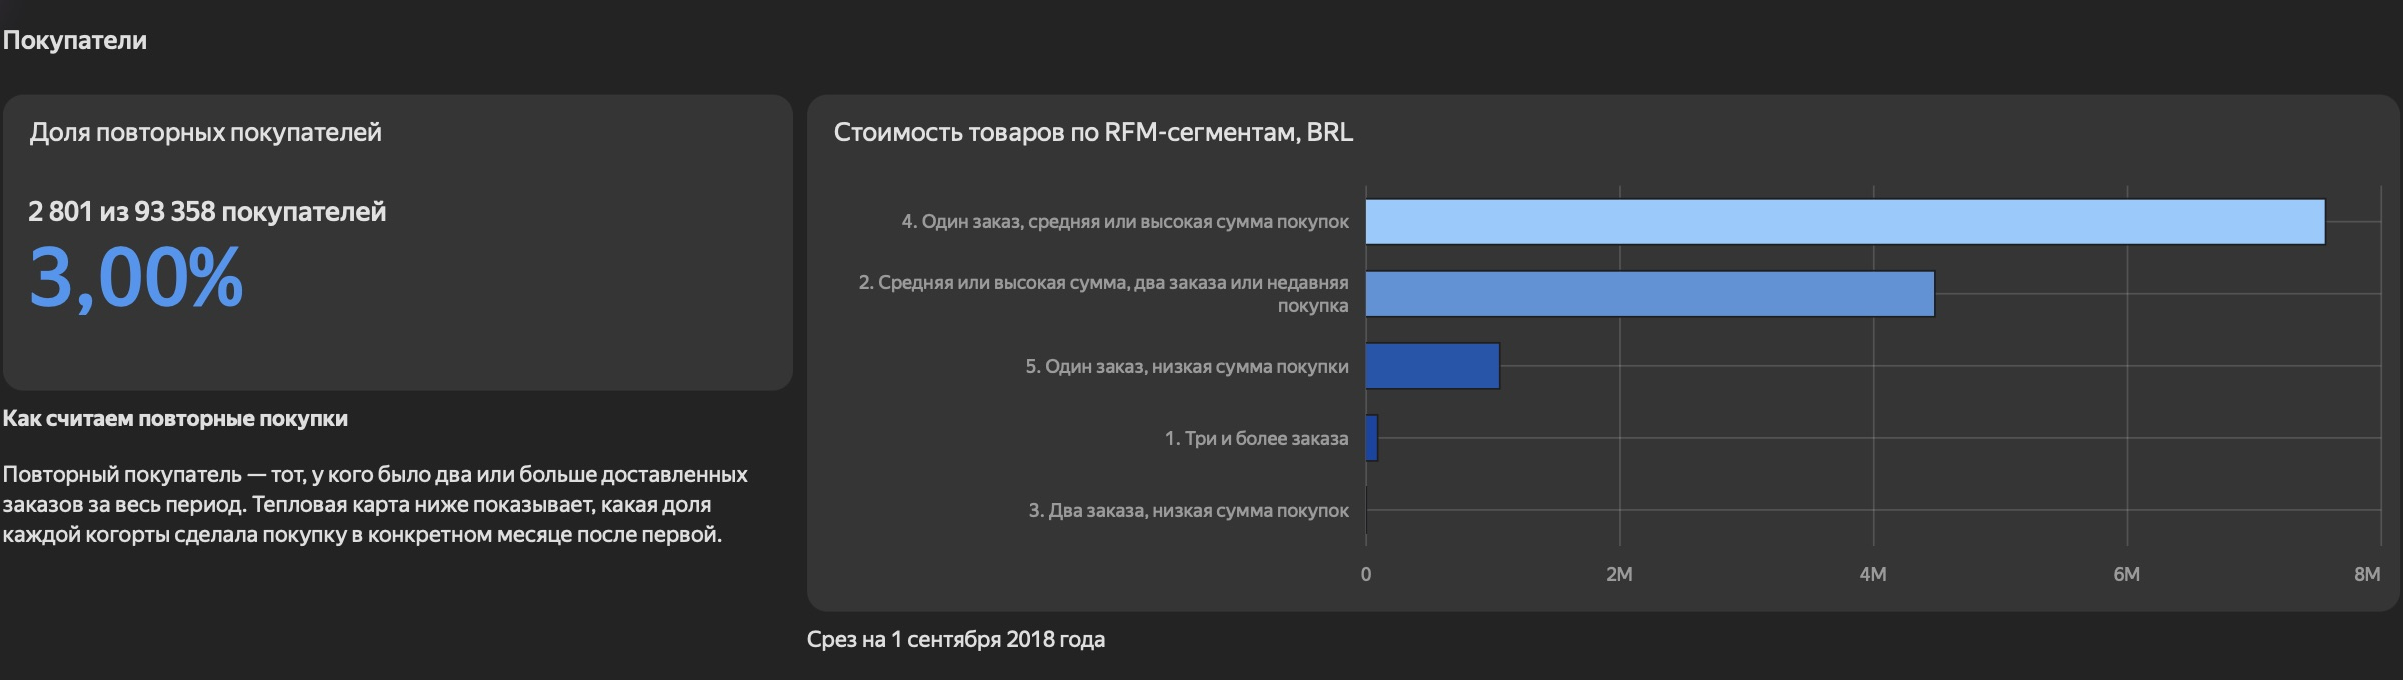
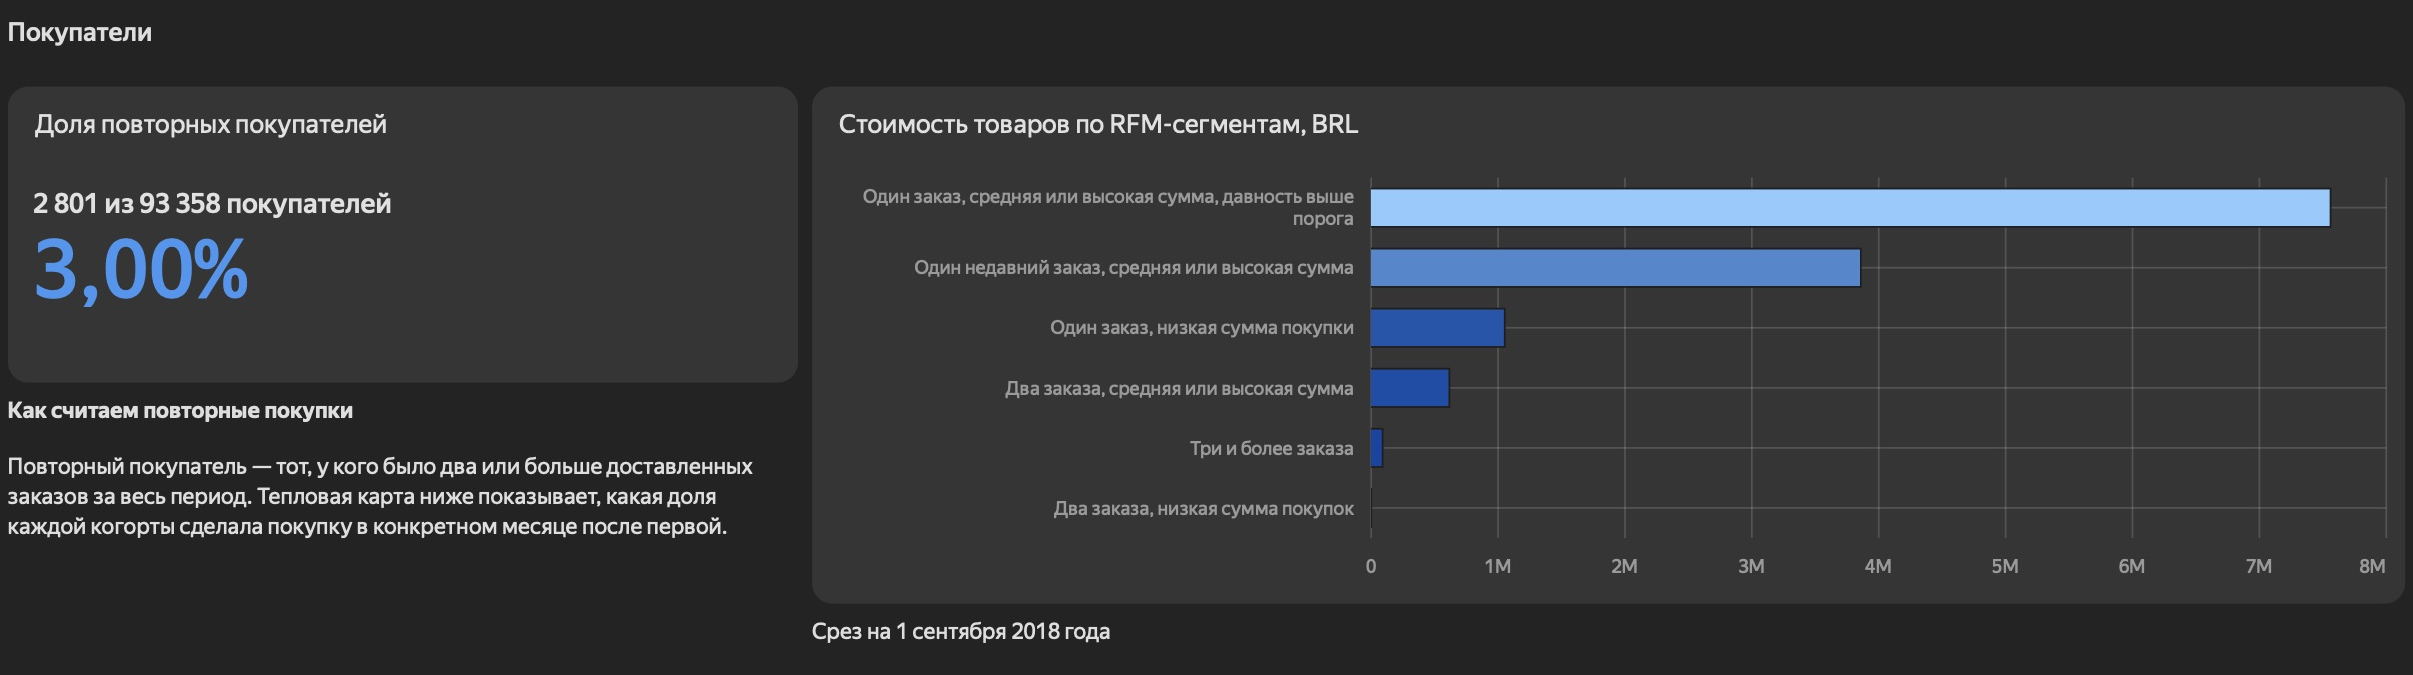
Перевести категории товаров и обновить материалы проекта

diff --git a/docs/business-report.md b/docs/business-report.md
@@ -35,11 +35,11 @@
 
 Во всех 19 месяцах средняя оценка опоздавших заказов была ниже, а доля низких оценок — выше. Помесячные разрывы составили 1,41–2,28 балла и 35,20–61,64 п. п. соответственно. Сравнение показывает связь в наблюдаемых данных. Для оценки причинного эффекта потребовалось бы учесть другие различия между группами заказов. [SQL анализа доставки и оценок](../sql/06_delivery_reviews.sql)
 
-Отменённые заказы определяются по статусу `canceled` и делятся на все заказы месяца покупки. За тот же период отменено **577 из 98 292** заказов (**0,59%**). Максимум по месячной доле пришёлся на август 2018 года (**1,29%**, 84 из 6 512). [Дашборд доставки и отмен](../dashboard/screenshots/delivery.png)
+Доля отмен — это число заказов со статусом `canceled`, делённое на общее число заказов месяца покупки. Отдельный статус `unavailable` за тот же период получили **592 заказа**. В числитель доли отмен они не входят. За тот же период отменено **577 из 98 292** заказов (**0,59%**). Максимум по месячной доле пришёлся на август 2018 года (**1,29%**, 84 из 6 512). [Дашборд доставки и отмен](../dashboard/screenshots/delivery.png)
 
 ## Покупатели
 
-За всю историю **2 801 из 93 358** покупателей получили минимум два заказа. В когортах с февраля 2017 по июль 2018 года в следующем календарном месяце покупку совершили **418 из 86 233** покупателей (**0,48%**, взвешенная доля). У отдельных когорт показатель лежал в диапазоне **0,18–0,72%**. Когорта определяется по месяцу первой покупки среди доставленных заказов. Ноль в матрице означает отсутствие покупок в наблюдаемом месяце, пустая ячейка — месяц за границей наблюдения. [Когортный SQL](../sql/04_cohort_analysis.sql) · [Ноутбук](../notebooks/02_cohort_analysis.ipynb) · [Тепловая карта](../dashboard/screenshots/cohorts.png)
+За всю историю **2 801 из 93 358** покупателей получили минимум два заказа. В когортах с февраля 2017 по июль 2018 года в следующем календарном месяце покупку совершили **418 из 86 233** покупателей (**0,48%**, взвешенная доля). Когорта определяется по месяцу первой покупки среди доставленных заказов. Ноль в матрице означает отсутствие покупок в наблюдаемом месяце, пустая ячейка — месяц за границей наблюдения. [Когортный SQL](../sql/04_cohort_analysis.sql) · [Ноутбук](../notebooks/02_cohort_analysis.ipynb) · [Тепловая карта](../dashboard/screenshots/cohorts.png)
 
 RFM учитывает давность последней покупки, число доставленных заказов и стоимость товаров до даты среза. Давность и стоимость делятся по 33-му и 67-му процентилям, частота — на один, два и три или более заказов. На **1 сентября 2018 года** в аудиторию для теста второй покупки вошли **19 956 из 93 358 покупателей (21,38%)**. У каждого был один доставленный заказ, с даты покупки прошло не более **150 дней**, а стоимость товаров в заказе превышала **57,90 BRL**. Это пороги данного среза. Покупатели, которые уже сделали два заказа, выделены отдельно. [RFM SQL](../sql/05_rfm_analysis.sql)
 

diff --git a/data/README.md b/data/README.md
@@ -8,4 +8,4 @@ kaggle datasets download -d olistbr/brazilian-ecommerce -p data/raw --unzip
 
 Для аудита используется отдельная локальная база PostgreSQL `olist_analytics`. Таблицы находятся в схеме `public` и называются без префикса `olist_`, например `orders`, `order_items` и `order_payments`.
 
-В базу загружены исходные CSV. Первичные и внешние ключи можно проверить на этапе аудита.
+В базу загружены исходные CSV. Аудит проверяет уникальность `orders.order_id` и выявляет товарные позиции без связанного заказа.
